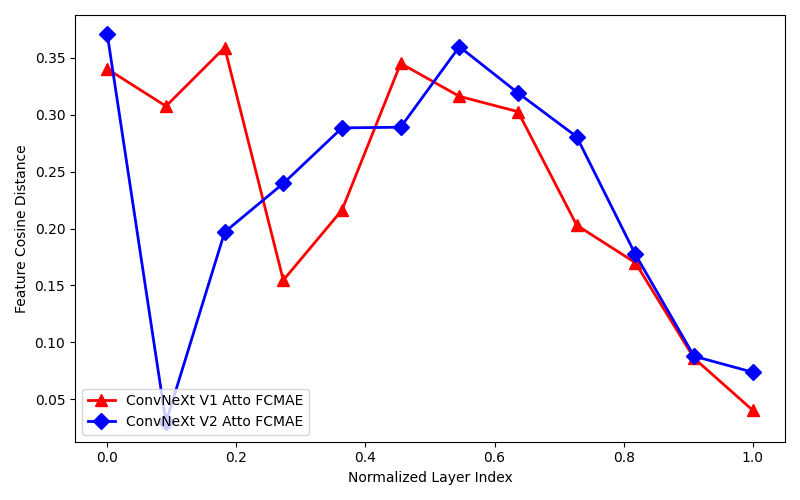
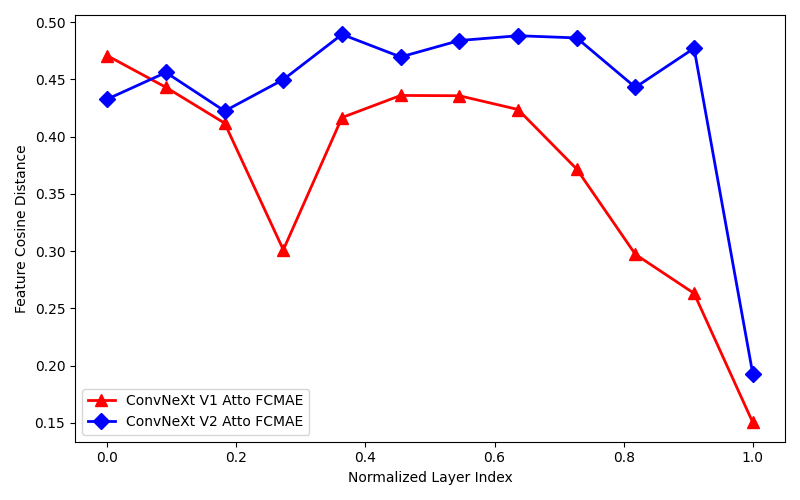
feat: Reproduce feature collapse phenomenon

diff --git a/main_cosine_distance.py b/main_cosine_distance.py
@@ -1,7 +1,6 @@
 import os
 import numpy as np
 import torch
-import torch.nn as nn
 import torch.nn.functional as F
 import torchvision.transforms as transforms
 import torchvision.datasets as datasets
@@ -86,10 +85,11 @@ def _compute_cosine_distance(activation_dict):
     layer_distances = {}
 
     for layer_idx, act in activation_dict.items():
-        b, c, _, _ = act.shape # (b, c, h, w)
+        n, h, w, c = act.shape # (N, H, W, C)
 
-        feature_map = act.reshape(b, c, -1) # (b, c, h*w)
-        flat_feature_map = feature_map.permute(1, 0, 2).reshape(c, -1) # (c, b, h*w) -> (c, b*h*w)
+        act = act.permute(0, 3, 1, 2) # (N, H, W, C) -> (N, C, H, W)
+        feature_map = act.reshape(n, c, -1) # (N, C, H*W)
+        flat_feature_map = feature_map.permute(1, 0, 2).reshape(c, -1) # (C, N, H*W) -> (C, N*H*W)
         
         norm_feature_map = F.normalize(flat_feature_map, p=2, dim=1)
         similarity_matrix = torch.mm(norm_feature_map, norm_feature_map.T)
